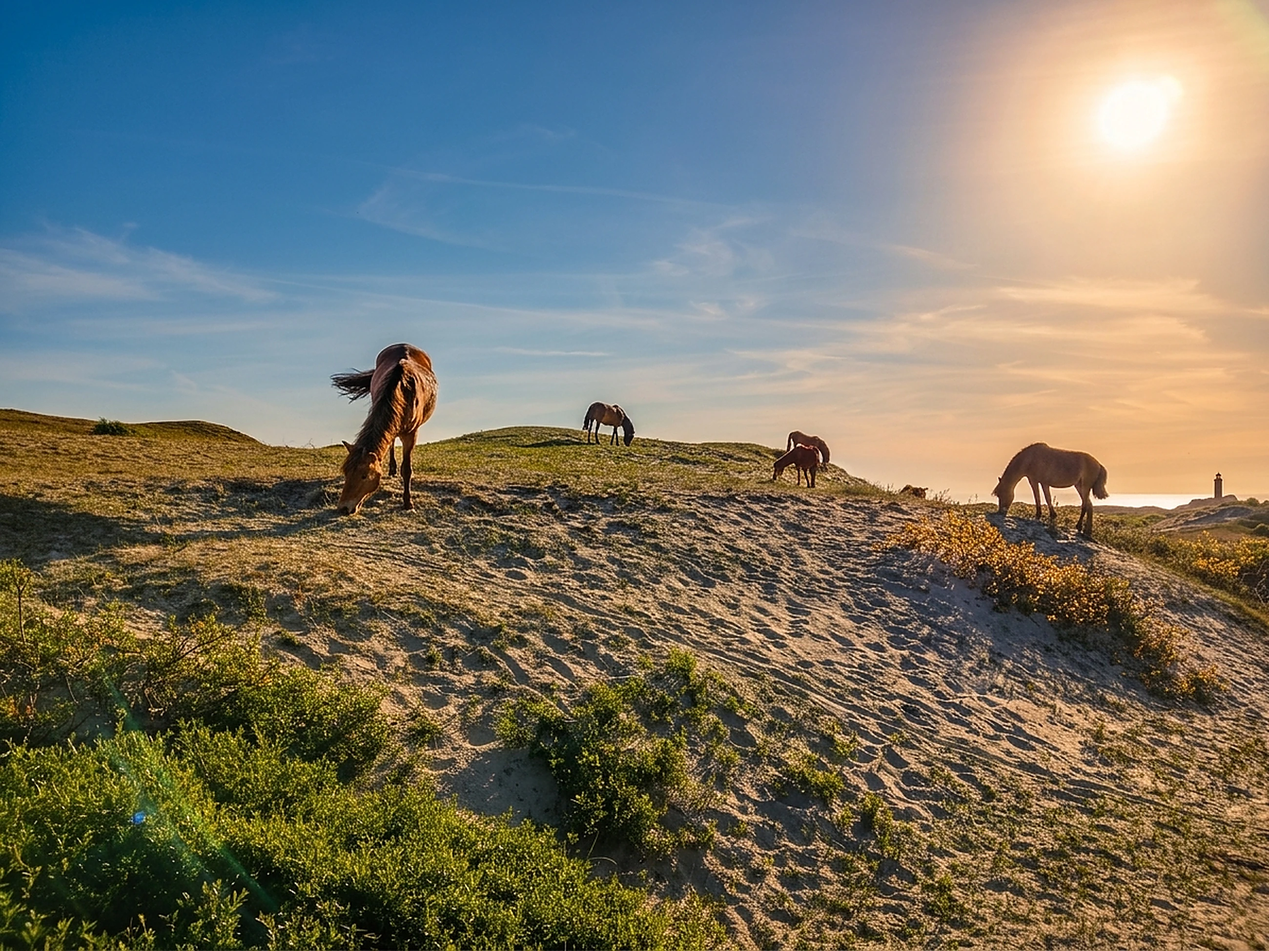
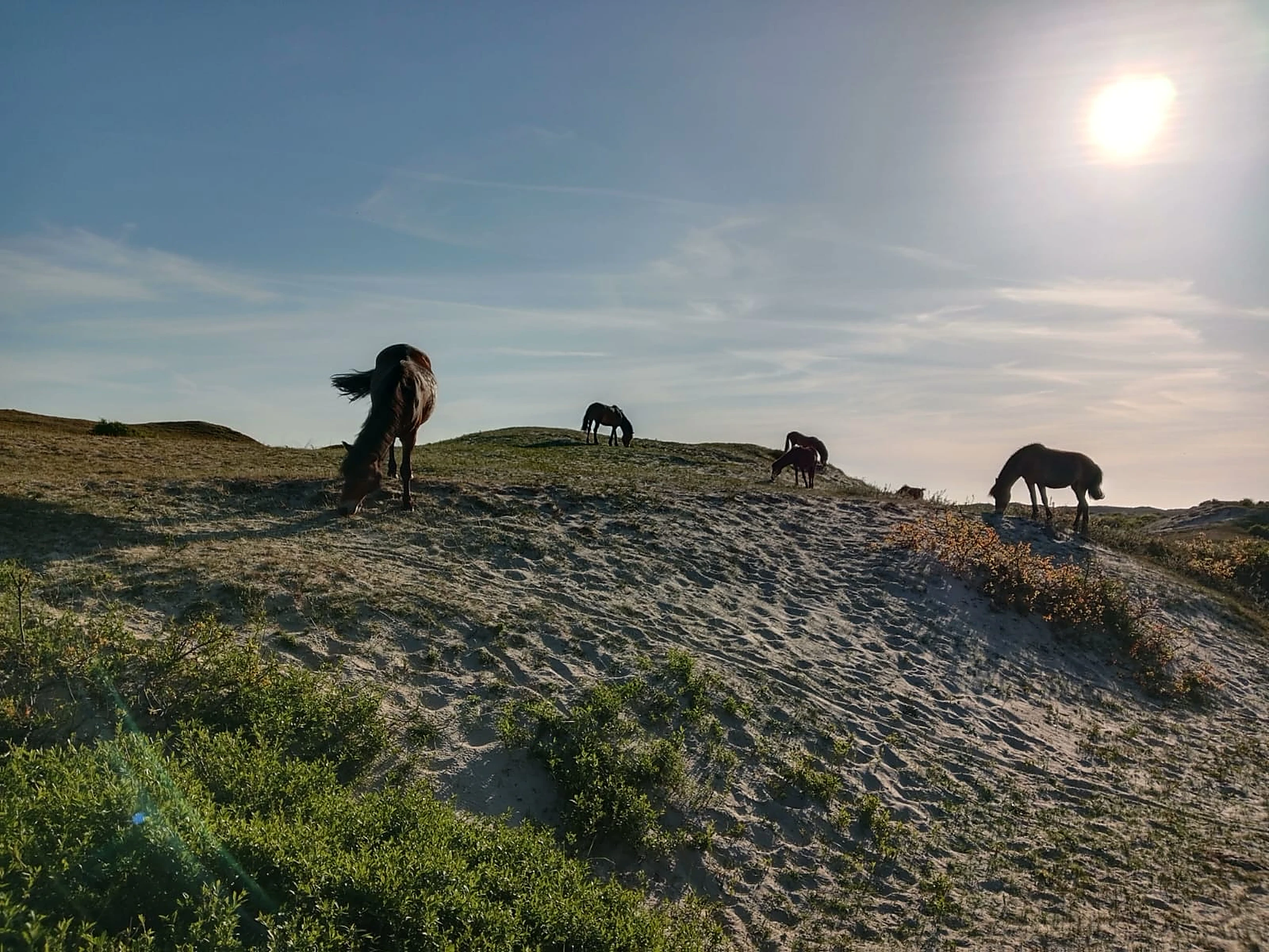
Contact: user's own horses photo as background
Claude-Session: https://claude.ai/code/session_013aT2WdgBLAc9CEE5zh2tzu

diff --git a/index.html b/index.html
@@ -949,7 +949,7 @@
   /* Blog, Contact, Syllabus: same calm photo treatment as Packages */
   html body :is(#blog, #syllabus).page .page-photo img { filter: sepia(0.15) saturate(0.9) brightness(0.6) !important; }
   html body :is(#blog, #syllabus).page .page-photo::after { background: radial-gradient(ellipse 70% 90% at 50% 45%, rgba(10,6,3,0.55), rgba(10,6,3,0.25) 75%, rgba(10,6,3,0.1)), linear-gradient(180deg, rgba(10,6,3,0.4), rgba(10,6,3,0.1) 22%, rgba(10,6,3,0.1) 60%, rgba(10,6,3,0.5)) !important; }
-  html body #contact.page > .page-photo img { filter: sepia(0.15) saturate(0.9) brightness(0.65) !important; }
+  html body #contact.page > .page-photo img { filter: sepia(0.15) saturate(0.9) brightness(0.85) !important; }
   html body #contact.page > .page-photo::after { background: radial-gradient(ellipse 70% 90% at 50% 45%, rgba(10,6,3,0.5), rgba(10,6,3,0.2) 75%, rgba(10,6,3,0.08)), linear-gradient(180deg, rgba(10,6,3,0.4), rgba(10,6,3,0.1) 22%, rgba(10,6,3,0.1) 60%, rgba(10,6,3,0.5)) !important; }
   /* Darker transparent orange boxes (Packages) */
   html body .page.page:not(#zz):not(#zy) .flip-card-front.flip-card-front { background: linear-gradient(160deg, rgba(95,45,9,0.8), rgba(55,25,5,0.84)) !important; }
